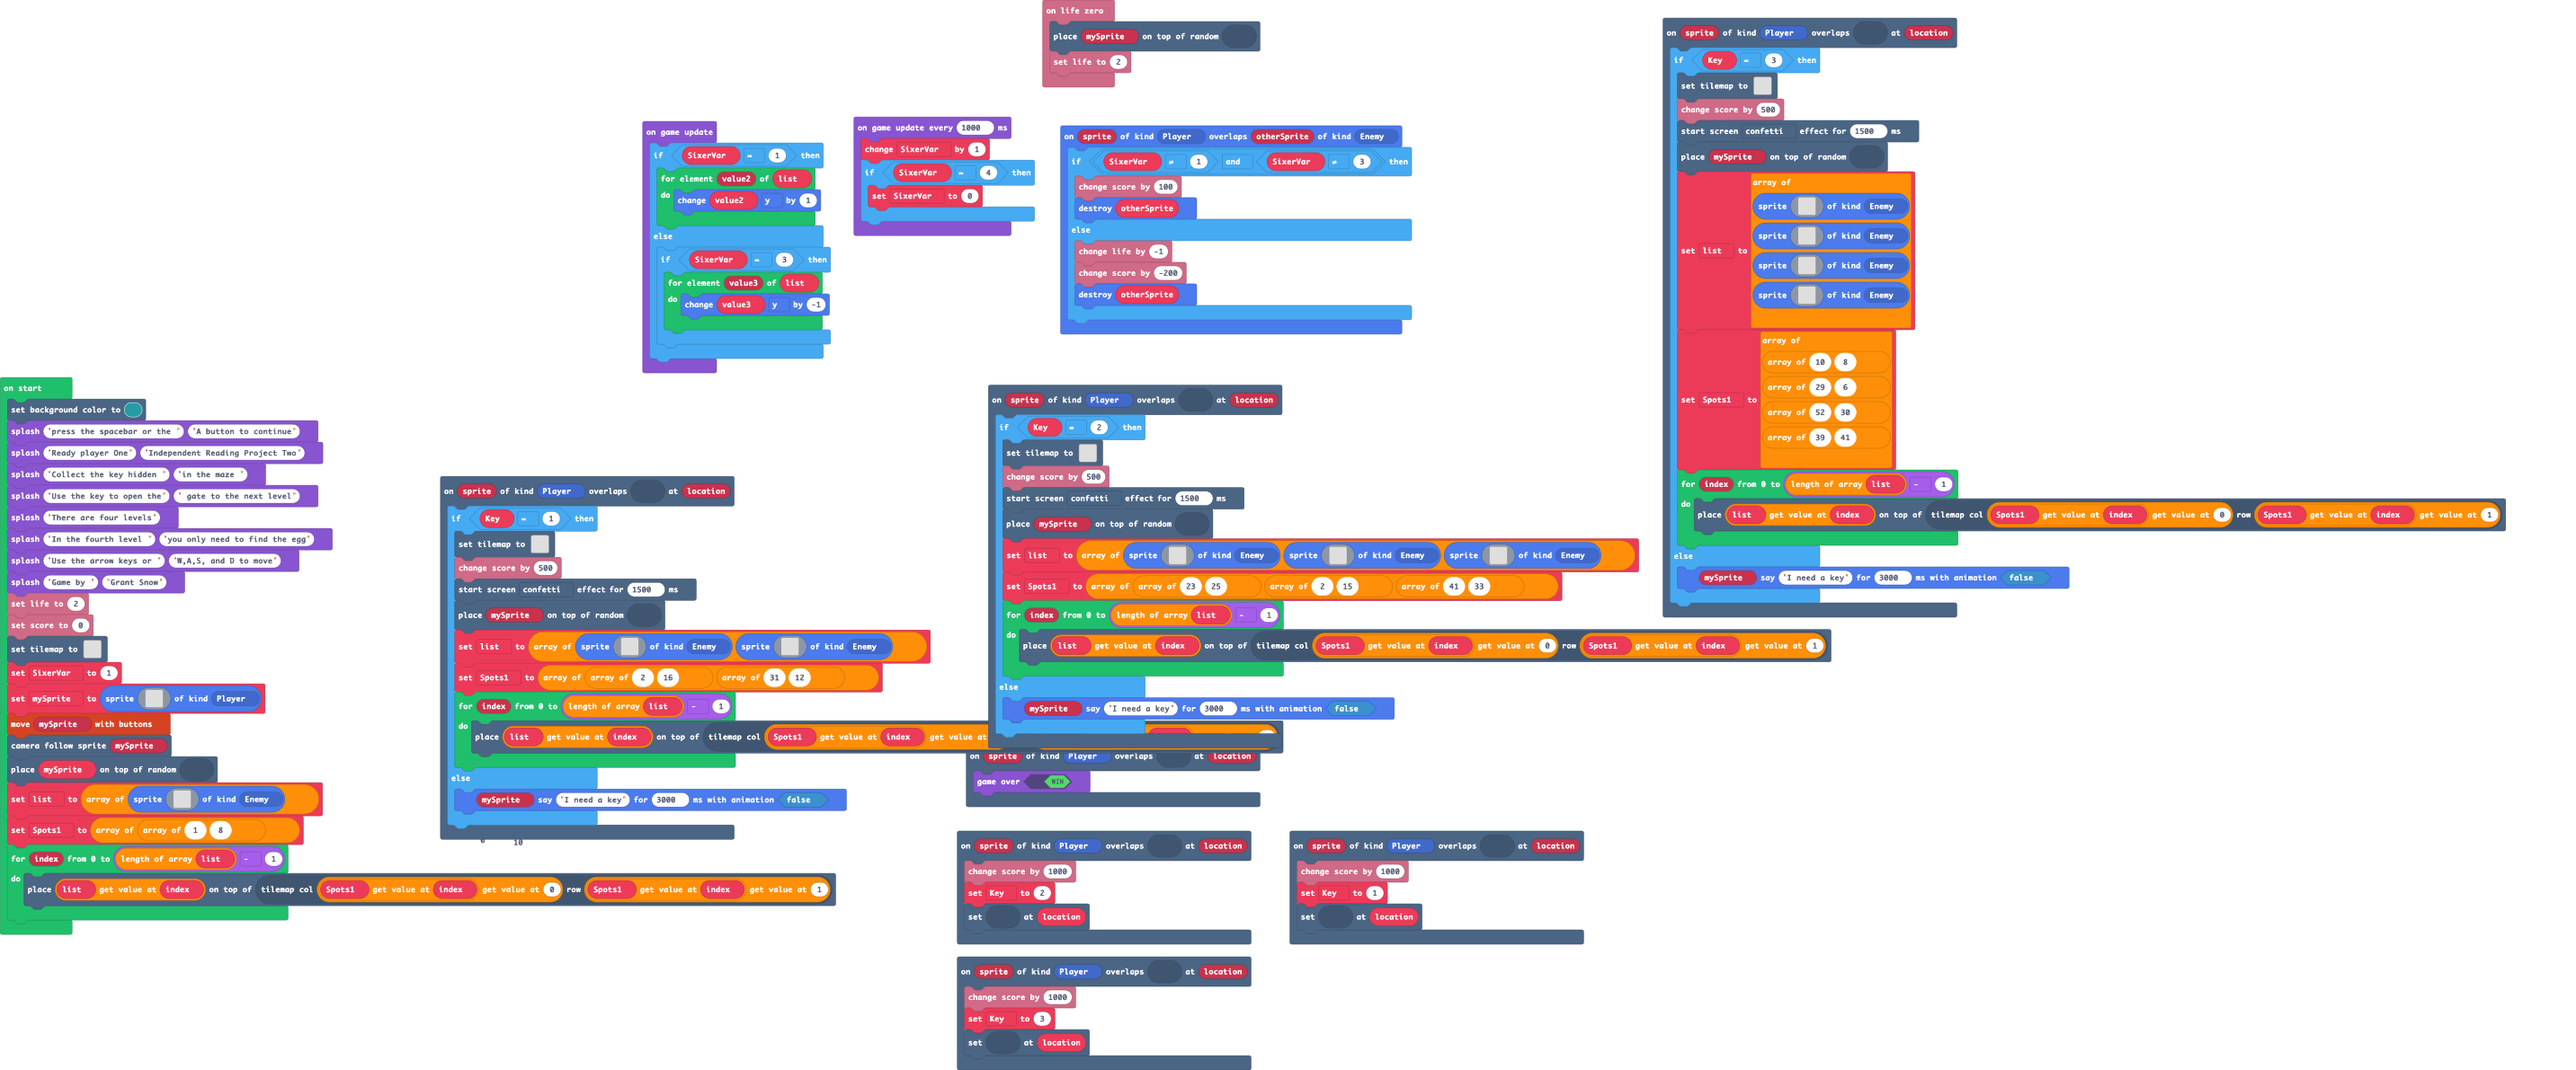
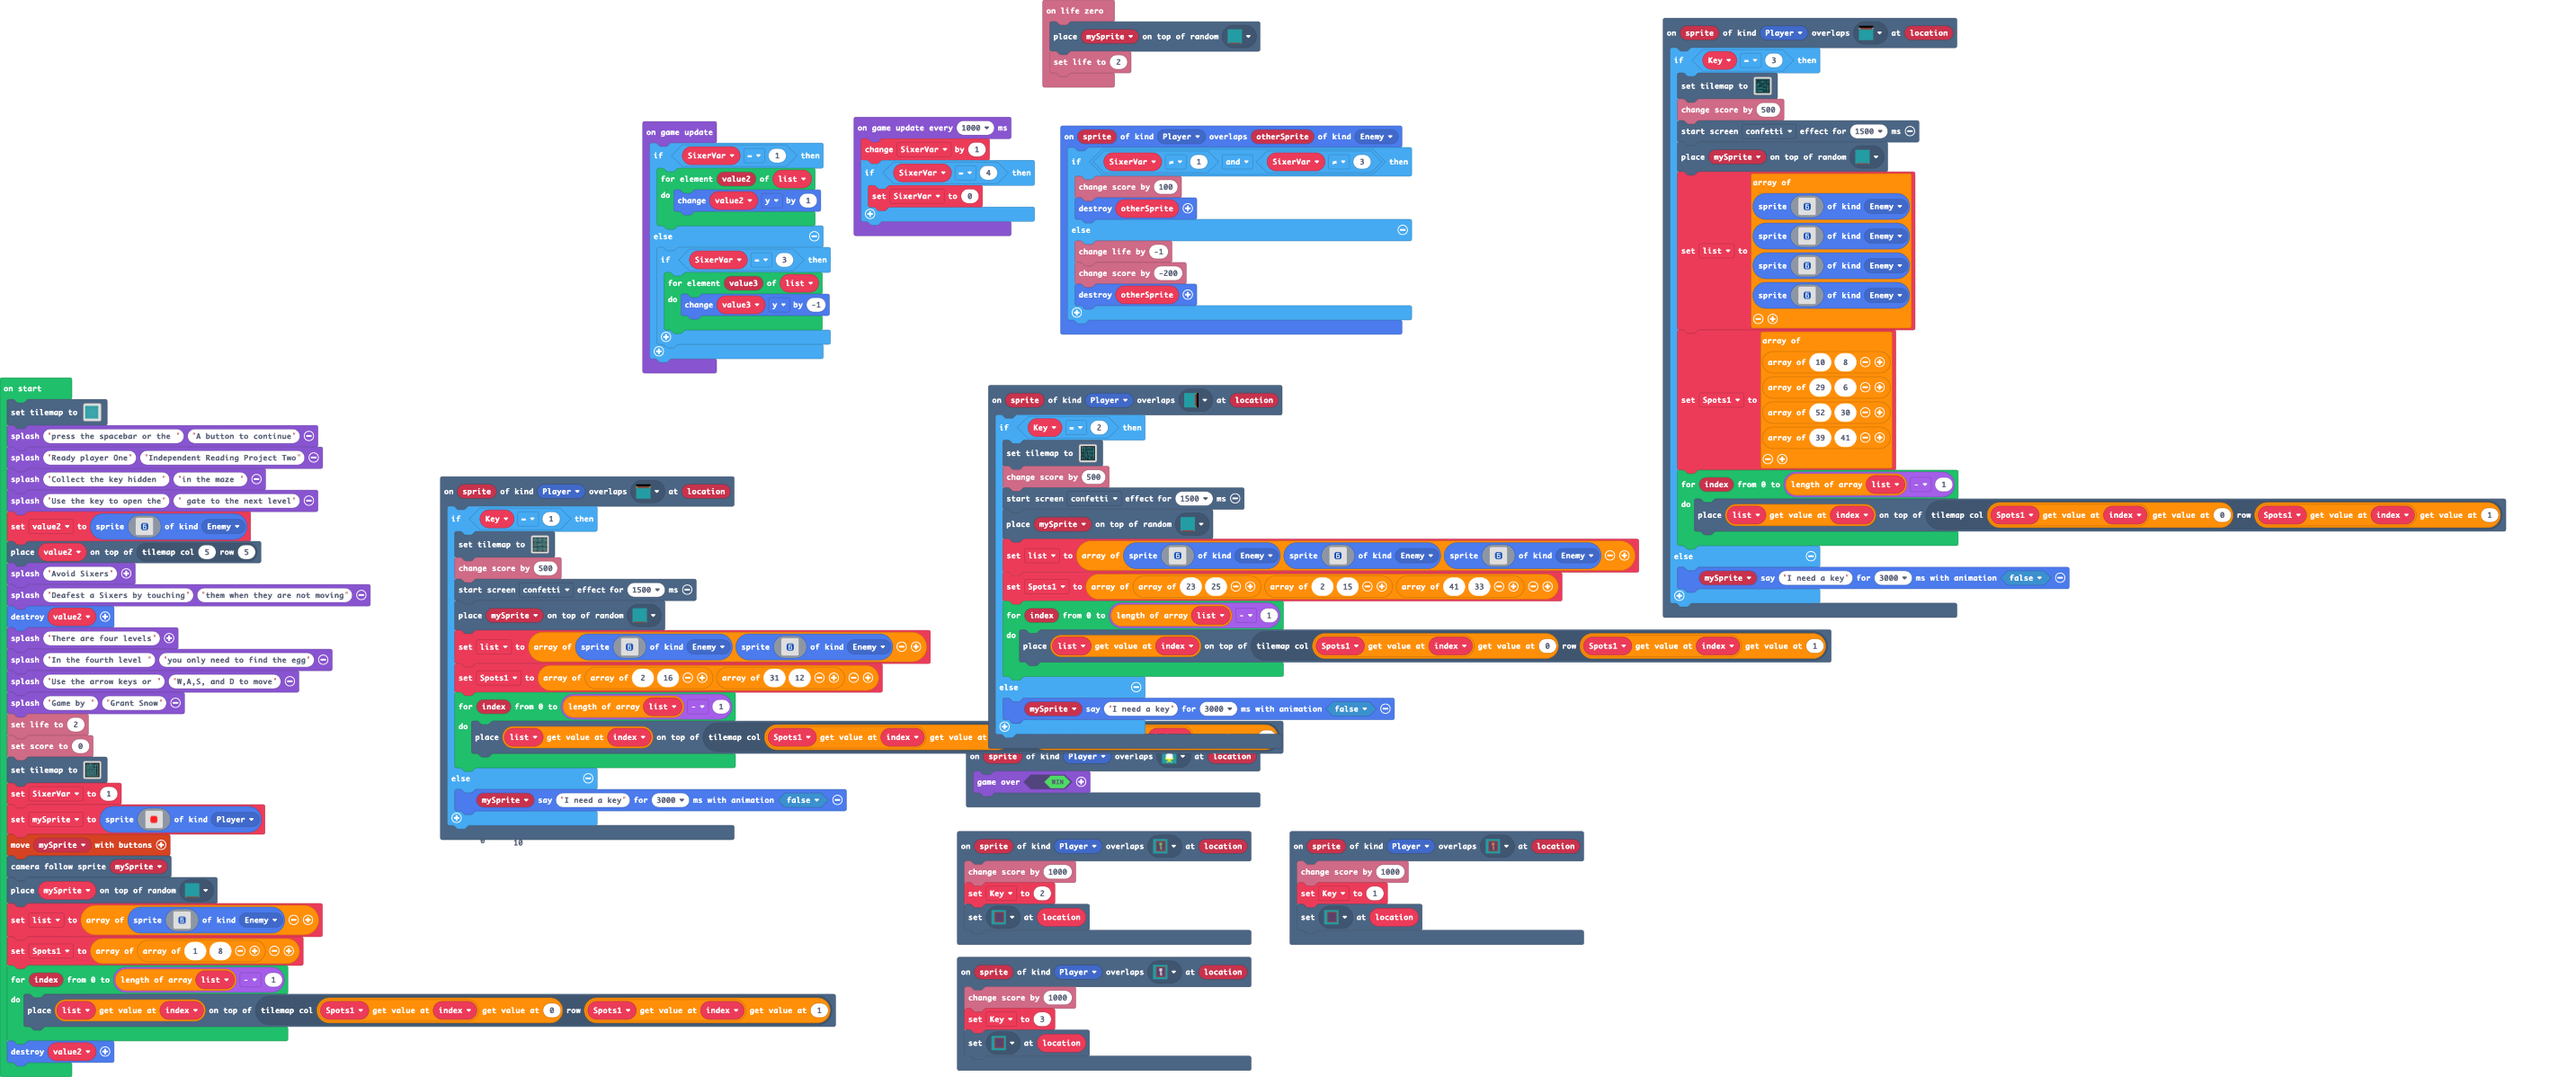
Update main.blocks, main.ts, tilemap.g.jres, tilemap.g.ts

Changed region(s): [[0.0, 0.0621, 0.9941, 1.0], [0.2485, 0.0932, 0.5592, 0.3728]]

diff --git a/tilemap.g.ts b/tilemap.g.ts
@@ -32,6 +32,12 @@ namespace myTiles {
     export const tile5 = image.ofBuffer(hex``);
     //% fixedInstance jres blockIdentity=images._tile
     export const tile15 = image.ofBuffer(hex``);
+    //% fixedInstance jres blockIdentity=images._tile
+    export const tile16 = image.ofBuffer(hex``);
+    //% fixedInstance jres blockIdentity=images._tile
+    export const tile17 = image.ofBuffer(hex``);
+    //% fixedInstance jres blockIdentity=images._tile
+    export const tile18 = image.ofBuffer(hex``);
 
     helpers._registerFactory("tilemap", function(name: string) {
         switch(helpers.stringTrim(name)) {
@@ -644,6 +650,57 @@ namespace myTiles {
 . . . . . . . . . . . . . . . . 
 . . . . . . . . . . . . . . . . 
 `, [myTiles.transparency16], TileScale.Sixteen);
+            case "level27":
+            case "level27":return tiles.createTilemap(hex`1000100000000000000000000000000000000000000000000000000000000000000000000000000000000000000000000000000000000000000000000000000000000000000000000000000000000000000000000000000000000000000000000000000000000000000000000000000000000000000000000000000000000000000000000000000000000000000000000000000000000000000000000000000000000000000000000000000000000000000000000000000000000000000000000000000000000000000000000000000000000000000000000000000000000000000000000000000000000000000000000000000000000000000000000000000000000000`, img`
+. . . . . . . . . . . . . . . . 
+. . . . . . . . . . . . . . . . 
+. . . . . . . . . . . . . . . . 
+. . . . . . . . . . . . . . . . 
+. . . . . . . . . . . . . . . . 
+. . . . . . . . . . . . . . . . 
+. . . . . . . . . . . . . . . . 
+. . . . . . . . . . . . . . . . 
+. . . . . . . . . . . . . . . . 
+. . . . . . . . . . . . . . . . 
+. . . . . . . . . . . . . . . . 
+. . . . . . . . . . . . . . . . 
+. . . . . . . . . . . . . . . . 
+. . . . . . . . . . . . . . . . 
+. . . . . . . . . . . . . . . . 
+. . . . . . . . . . . . . . . . 
+`, [myTiles.transparency16], TileScale.Sixteen);
+            case "level28":
+            case "level28":return tiles.createTilemap(hex`1000100001010101010101010101010101010101010101010101010101010101010101010101010101010101010101010101010101010101010101010101010101010101010101010101010101010101010101010101010101010101010101010101010101010101010101010101010101010101010101010102020202020201010101010101010102020303030302020101010101010101020203020202020201010101010101010202030303030202010101010101010102020302020302020101010101010101020203020203020201010101010101010202030303030202010101010101010101020202020202010101010101010101010101010101010101010101`, img`
+. . . . . . . . . . . . . . . . 
+. . . . . . . . . . . . . . . . 
+. . . . . . . . . . . . . . . . 
+. . . . . . . . . . . . . . . . 
+. . . . . . . . . . . . . . . . 
+. . . . . . . . . . . . . . . . 
+. . . . . . . . . . . . . . . . 
+. . . . . . . . . . . . . . . . 
+. . . . . . . . . . . . . . . . 
+. . . . . . . . . . . . . . . . 
+. . . . . . . . . . . . . . . . 
+. . . . . . . . . . . . . . . . 
+. . . . . . . . . . . . . . . . 
+. . . . . . . . . . . . . . . . 
+. . . . . . . . . . . . . . . . 
+. . . . . . . . . . . . . . . . 
+`, [myTiles.transparency16,myTiles.tile2,myTiles.tile16,myTiles.tile17], TileScale.Sixteen);
+            case "level29":
[1 lines of base64/hex data omitted]
+. . . . . . . . . . . 
+. . . . . . . . . . . 
+. . . . . . . . . . . 
+. . . . . . . . . . . 
+. . . . . . . . . . . 
+. . . . . . . . . . . 
+. . . . . . . . . . . 
+. . . . . . . . . . . 
+. . . . . . . . . . . 
+. . . . . . . . . . . 
+`, [myTiles.transparency16,myTiles.tile2], TileScale.Sixteen);
         }
         return null;
     })
@@ -681,6 +738,12 @@ namespace myTiles {
             case "tile5":return tile5;
             case "myTile12":
             case "tile15":return tile15;
+            case "myTile13":
+            case "tile16":return tile16;
+            case "myTile14":
+            case "tile17":return tile17;
+            case "myTile15":
+            case "tile18":return tile18;
         }
         return null;
     })

diff --git a/main.ts b/main.ts
@@ -243,11 +243,33 @@ let Spots1: number[][] = []
 let list: Sprite[] = []
 let mySprite: Sprite = null
 let SixerVar = 0
-scene.setBackgroundColor(6)
+tiles.setTilemap(tilemap`level29`)
 game.splash("press the spacebar or the ", "A button to continue")
 game.splash("Ready player One", "Independent Reading Project Two")
 game.splash("Collect the key hidden ", "in the maze ")
 game.splash("Use the key to open the", " gate to the next level")
+let value2 = sprites.create(img`
+    . . . . . . . . . . . . . . . . 
+    . . . . . . . . . . . . . . . . 
+    . . . . . . . . . . . . . . . . 
+    . . . . . . . . . . . . . . . . 
+    . . . . . 8 8 8 8 8 8 . . . . . 
+    . . . . 8 8 1 1 1 1 8 8 . . . . 
+    . . . . 8 8 1 8 8 8 8 8 . . . . 
+    . . . . 8 8 1 1 1 1 8 8 . . . . 
+    . . . . 8 8 1 8 8 1 8 8 . . . . 
+    . . . . 8 8 1 8 8 1 8 8 . . . . 
+    . . . . 8 8 1 1 1 1 8 8 . . . . 
+    . . . . . 8 8 8 8 8 8 . . . . . 
+    . . . . . . . . . . . . . . . . 
+    . . . . . . . . . . . . . . . . 
+    . . . . . . . . . . . . . . . . 
+    . . . . . . . . . . . . . . . . 
+    `, SpriteKind.Enemy)
+tiles.placeOnTile(value2, tiles.getTileLocation(5, 5))
+game.splash("Avoid Sixers")
+game.splash("Deafest a Sixers by touching", "them when they are not moving")
+value2.destroy()
 game.splash("There are four levels")
 game.splash("In the fourth level ", "you only need to find the egg")
 game.splash("Use the arrow keys or ", "W,A,S, and D to move")
@@ -299,6 +321,7 @@ Spots1 = [[1, 8]]
 for (let index = 0; index <= list.length - 1; index++) {
     tiles.placeOnTile(list[index], tiles.getTileLocation(Spots1[index][0], Spots1[index][1]))
 }
+value2.destroy()
 game.onUpdate(function () {
     if (SixerVar == 1) {
         for (let value2 of list) {
